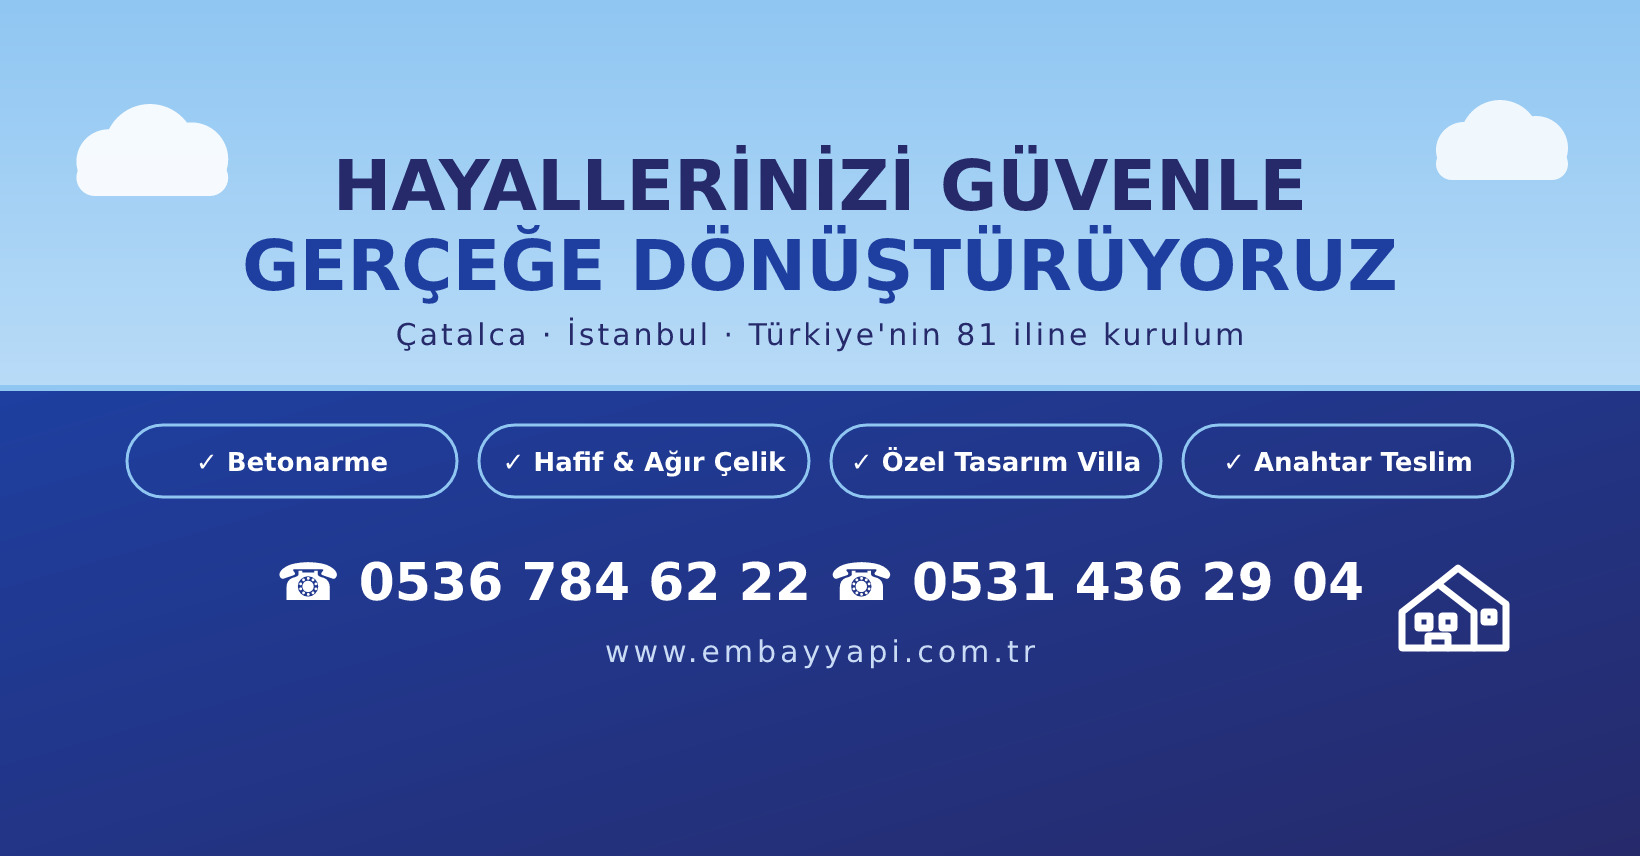
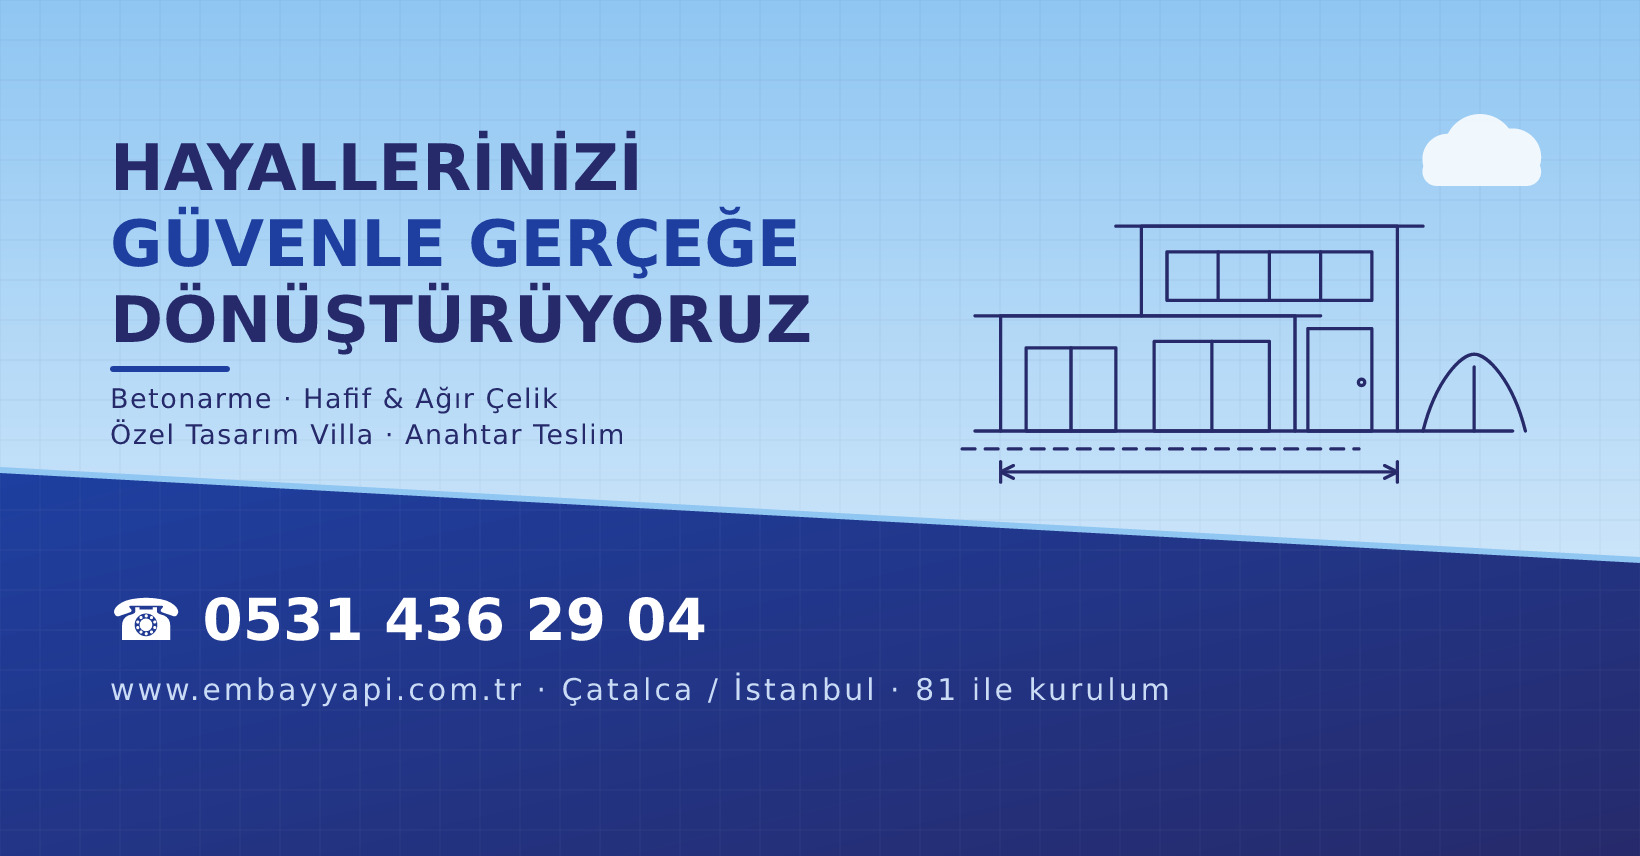
feat(marka): tek telefon (0531 436 29 04; 0536 kaldırıldı), özgün mimari-çizim teması — çapraz kesim, blueprint ızgara, yazı sığmazsa otomatik küçülme ve açık satır aralığı (üst üste binme yok); yeni kapak: çizgi villa + ölçü oku
Claude-Session: https://claude.ai/code/session_01Tki85ngyo3zzuqj4GvK5x1

diff --git a/supabase/functions/_shared/factory.ts b/supabase/functions/_shared/factory.ts
@@ -59,7 +59,7 @@ function wrap(text: string, maxChars: number, maxLines: number) {
     if (lines.length >= maxLines) break;
   }
   if (cur && lines.length < maxLines) lines.push(cur);
-  if (lines.length === maxLines && words.join(' ').length > lines.join(' ').length) lines[maxLines - 1] = lines[maxLines - 1].replace(/\s*\S*$/, '') + '…';
+  if (lines.length === maxLines && words.join(' ').length > lines.join(' ').length) { const cut = lines[maxLines - 1].replace(/\s*\S*$/, ''); lines[maxLines - 1] = (cut || lines[maxLines - 1]) + '…'; }
   return lines;
 }
 
@@ -107,27 +107,35 @@ function renderEmbay(o: BannerOpts) {
   const { w, h } = o; const wide = w / h > 1.3; const tall = h / w > 1.5; const u = Math.min(w, h);
   const pad = Math.round(u * 0.07);
   const barH = Math.round(u * (wide ? 0.15 : 0.14));
-  const phone = o.brand?.phone || '0531 436 29 04'; const phone2 = o.brand?.phone2 || '0536 784 62 22'; const site = o.brand?.website || 'www.embayyapi.com.tr';
+  const phone = o.brand?.phone || '0531 436 29 04'; const site = o.brand?.website || 'www.embayyapi.com.tr';
   const ic = o.icon ?? iconFor(o.badge);
   const photoUri = o.photo ? `data:${o.photoMime || 'image/jpeg'};base64,${b64(o.photo)}` : null;
-  const hSize = Math.round(u * (wide ? 0.075 : 0.07)); const sSize = Math.round(u * (wide ? 0.034 : 0.033));
   const panelW = wide ? Math.round(w * 0.5) : w;
   const textW = panelW - pad * 2;
-  const hLines = wrap(o.headline.toLocaleUpperCase('tr-TR'), Math.floor(textW / (hSize * 0.68)), 3);
-  const sLines = wrap(o.subtitle, Math.floor(textW / (sSize * 0.56)), 2);
+  const clean = (l: string) => l.replace(/^[\s·|,-]+|[\s·|,-]+$/g, '');
   const cta = o.cta.replace(/[:\s]*(\+?90\s*)?0?\s*5\d{2}[\s\d]{7,}/g, '').trim();
-  const badgeH = Math.round(sSize * 1.7); const badgeW = Math.round(o.badge.length * sSize * 0.78 + sSize * 2.8);
   const chips: Array<[string, string]> = [['bina', 'Betonarme'], ['vinc', 'Çelik yapı'], ['ev', 'Anahtar teslim']];
-  const chipH = Math.round(sSize * 1.8); const showChips = tall;
-  // Panel yüksekliği içerikten hesaplanır; fotoğraf kalan alanı kaplar
-  const contentH = Math.round(pad * 0.8) + badgeH + Math.round(hSize * 1.15) + (hLines.length - 1) * hSize * 1.08 + sSize * 1.9 + sLines.length * sSize * 1.35 + (cta ? sSize * 1.4 : 0) + (showChips ? chipH + pad * 0.6 : 0) + pad * 0.7;
+  const showChips = tall;
+  // Yazı sığmazsa (fotoğraf en az %38 kalacak şekilde) başlık ve alt yazı %8'lik adımlarla küçültülür → taşma/üst üste binme olmaz
+  let scale = 1; let hSize = 0, sSize = 0, badgeH = 0, chipH = 0, hLines: string[] = [], sLines: string[] = [], contentH = 0;
+  for (let i = 0; i < 6; i++) {
+    hSize = Math.round(u * (wide ? 0.06 : 0.07) * scale); sSize = Math.round(u * (wide ? 0.032 : 0.033) * Math.max(0.85, scale));
+    hLines = wrap(o.headline.toLocaleUpperCase('tr-TR'), Math.floor(textW / (hSize * 0.68)), 3).map(clean);
+    sLines = wrap(o.subtitle, Math.floor(textW / (sSize * 0.56)), 2);
+    badgeH = Math.round(sSize * 1.7); chipH = Math.round(sSize * 1.8);
+    contentH = Math.round(pad * 0.8 + u * 0.06) + badgeH + Math.round(hSize * 1.25) + (hLines.length - 1) * hSize * 1.2 + sSize * 2.1 + sLines.length * sSize * 1.45 + (cta ? sSize * 1.6 : 0) + (showChips ? chipH + pad * 0.6 : 0) + pad * 0.8;
+    if (wide || h - barH - contentH >= h * 0.38) break;
+    scale *= 0.92;
+  }
+  const badgeW = Math.round(o.badge.length * sSize * 0.78 + sSize * 2.8);
   const phH = wide ? h - barH : Math.round(Math.min(h * 0.62, Math.max(h * 0.38, h - barH - contentH)));
-  const ph = wide ? { x: panelW, y: 0, w: w - panelW, h: phH } : { x: 0, y: 0, w, h: phH };
+  // Fotoğraf çapraz kesimin altına kadar uzar; lacivert panel çaprazdan başlar
+  const ph = wide ? { x: panelW - Math.round(u * 0.16), y: 0, w: w - panelW + Math.round(u * 0.16), h: phH } : { x: 0, y: 0, w, h: phH + Math.round(u * 0.07) };
   const panel = wide ? { x: 0, y: 0, w: panelW, h: h - barH } : { x: 0, y: phH, w, h: h - barH - phH };
-  const badgeY = wide ? Math.round(pad + u * 0.2) : panel.y + Math.round(pad * 0.8);
-  const textTop = badgeY + badgeH + Math.round(hSize * 1.15);
-  const subTop = textTop + (hLines.length - 1) * hSize * 1.08 + sSize * 1.9;
-  const ctaY = subTop + sLines.length * sSize * 1.35 + sSize * 0.35;
+  const badgeY = wide ? Math.round(pad + u * 0.2) : panel.y + Math.round(pad * 0.8 + u * 0.06);
+  const textTop = badgeY + badgeH + Math.round(hSize * 1.25);
+  const subTop = textTop + (hLines.length - 1) * hSize * 1.2 + sSize * 2.1;
+  const ctaY = subTop + sLines.length * sSize * 1.45 + sSize * 0.35;
   const chipY = ctaY + sSize * 1.2;
   const cloud = (cx: number, cy: number, r: number, op: number) => `<g fill="#FFFFFF" opacity="${op}"><circle cx="${cx}" cy="${cy}" r="${r}"/><circle cx="${cx + r * 0.9}" cy="${cy + r * 0.2}" r="${r * 0.8}"/><circle cx="${cx - r * 0.9}" cy="${cy + r * 0.25}" r="${r * 0.7}"/><rect x="${cx - r * 1.6}" y="${cy + r * 0.2}" width="${r * 3.3}" height="${r * 0.8}" rx="${r * 0.4}"/></g>`;
   const sky = `<rect x="${ph.x}" y="${ph.y}" width="${ph.w}" height="${ph.h}" fill="url(#sky)"/>${cloud(ph.x + ph.w * 0.62, ph.y + ph.h * 0.2, u * 0.06, 0.85)}${cloud(ph.x + ph.w * 0.85, ph.y + ph.h * 0.45, u * 0.04, 0.7)}${icon(ic, ph.x + ph.w / 2 - u * 0.16, ph.y + ph.h - u * 0.36, u * 0.32, EMBAY.navy, 3.5, 0.5)}`;
@@ -139,20 +147,23 @@ function renderEmbay(o: BannerOpts) {
 <linearGradient id="fade" x1="0" y1="0" x2="0" y2="1"><stop offset="0" stop-color="${EMBAY.navy2}" stop-opacity="0.45"/><stop offset="0.28" stop-color="${EMBAY.navy2}" stop-opacity="0"/></linearGradient></defs>
 <rect width="${w}" height="${h}" fill="url(#pan)"/>
 ${photo}
-${wide ? `<rect x="${ph.x - 4}" y="0" width="5" height="${ph.h}" fill="${EMBAY.sky}"/>` : `<rect x="0" y="${ph.h - 5}" width="${w}" height="5" fill="${EMBAY.sky}"/>`}
+${wide
+  ? `<polygon points="0,0 ${panelW + u * 0.02},0 ${panelW - u * 0.08},${h} 0,${h}" fill="url(#pan)"/><line x1="${panelW + u * 0.02}" y1="0" x2="${panelW - u * 0.08}" y2="${h - barH}" stroke="${EMBAY.sky}" stroke-width="5"/>`
+  : `<polygon points="0,${phH + u * 0.06} ${w},${phH - u * 0.05} ${w},${h} 0,${h}" fill="url(#pan)"/><line x1="0" y1="${phH + u * 0.06}" x2="${w}" y2="${phH - u * 0.05}" stroke="${EMBAY.sky}" stroke-width="5"/>`}
+<g stroke="#FFFFFF" stroke-width="1" opacity="0.06">${Array.from({ length: Math.ceil(w / (u * 0.05)) }, (_, i) => `<line x1="${i * u * 0.05}" y1="${wide ? 0 : phH + u * 0.06}" x2="${i * u * 0.05}" y2="${h - barH}"/>`).join('')}${Array.from({ length: Math.ceil(h / (u * 0.05)) }, (_, i) => (wide || i * u * 0.05 > phH + u * 0.06) && i * u * 0.05 < h - barH ? `<line x1="0" y1="${i * u * 0.05}" x2="${wide ? panelW - u * 0.08 : w}" y2="${i * u * 0.05}"/>` : '').join('')}</g>
 ${icon(ic, panel.x + panel.w - pad - u * 0.22, panel.y + (wide ? panel.h - u * 0.3 : pad * 0.6), u * 0.22, EMBAY.sky, 4, 0.14)}
 ${embayLogo(pad + logoR, pad + logoR, logoR, EMBAY.white)}
 <rect x="${pad}" y="${badgeY}" width="${badgeW}" height="${badgeH}" rx="${badgeH / 2}" fill="${EMBAY.sky}"/>
 ${icon(ic, pad + sSize * 0.55, badgeY + sSize * 0.25, sSize * 1.2, EMBAY.navy, 9)}
 <text x="${pad + sSize * 2.0}" y="${badgeY + sSize * 1.2}" font-family="DejaVu Sans" font-weight="700" font-size="${sSize}" fill="${EMBAY.navy}">${x(o.badge)}</text>
-${hLines.map((l, i) => `<text x="${pad}" y="${textTop + i * hSize * 1.08}" font-family="DejaVu Sans" font-weight="700" font-size="${hSize}" fill="${EMBAY.white}">${x(l)}</text>`).join('')}
-${sLines.map((l, i) => `<text x="${pad}" y="${subTop + i * sSize * 1.35}" font-family="DejaVu Sans" font-size="${sSize}" fill="#DCE9FB">${x(l)}</text>`).join('')}
+${hLines.map((l, i) => `<text x="${pad}" y="${textTop + i * hSize * 1.2}" font-family="DejaVu Sans" font-weight="700" font-size="${hSize}" fill="${EMBAY.white}">${x(l)}</text>`).join('')}
+${sLines.map((l, i) => `<text x="${pad}" y="${subTop + i * sSize * 1.45}" font-family="DejaVu Sans" font-size="${sSize}" fill="#DCE9FB">${x(l)}</text>`).join('')}
 ${cta ? `<text x="${pad}" y="${ctaY + sSize * 0.9}" font-family="DejaVu Sans" font-weight="700" font-size="${Math.round(sSize * 0.95)}" fill="${EMBAY.sky}">→ ${x(cta)}</text>` : ''}
 ${showChips ? chips.map((c, i) => { const cw = Math.round((w - pad * 2 - u * 0.04) / 3); const cx0 = pad + i * (cw + u * 0.02); return `<rect x="${cx0}" y="${chipY + pad * 0.3}" width="${cw}" height="${chipH}" rx="${chipH / 2}" fill="none" stroke="${EMBAY.sky}" stroke-width="2" opacity="0.8"/>${icon(c[0], cx0 + sSize * 0.5, chipY + pad * 0.3 + sSize * 0.35, sSize * 1.1, EMBAY.sky, 8)}<text x="${cx0 + sSize * 1.85}" y="${chipY + pad * 0.3 + chipH * 0.66}" font-family="DejaVu Sans" font-weight="700" font-size="${Math.round(sSize * 0.7)}" fill="${EMBAY.white}">${x(c[1])}</text>`; }).join('') : ''}
 <rect x="0" y="${h - barH}" width="${w}" height="${barH}" fill="${EMBAY.navy2}"/>
 <rect x="0" y="${h - barH}" width="${w}" height="3" fill="${EMBAY.sky}" opacity="0.7"/>
-<text x="${w / 2}" y="${h - barH * 0.5}" text-anchor="middle" font-family="DejaVu Sans" font-weight="700" font-size="${Math.round(sSize * 1.0)}" fill="${EMBAY.white}">☎ ${x(phone2)}     ☎ ${x(phone)}</text>
-<text x="${w / 2}" y="${h - barH * 0.2}" text-anchor="middle" font-family="DejaVu Sans" font-size="${Math.round(sSize * 0.72)}" fill="#C9DBF5" letter-spacing="2">${x(site)}</text>
+<text x="${pad}" y="${h - barH / 2 + sSize * 0.42}" font-family="DejaVu Sans" font-weight="700" font-size="${Math.round(sSize * 1.15)}" fill="${EMBAY.white}">☎ ${x(phone)}</text>
+<text x="${w - pad}" y="${h - barH / 2 + sSize * 0.3}" text-anchor="end" font-family="DejaVu Sans" font-size="${Math.round(sSize * 0.72)}" fill="#C9DBF5" letter-spacing="1.5">${x(site)}</text>
 </svg>`;
 }
 
